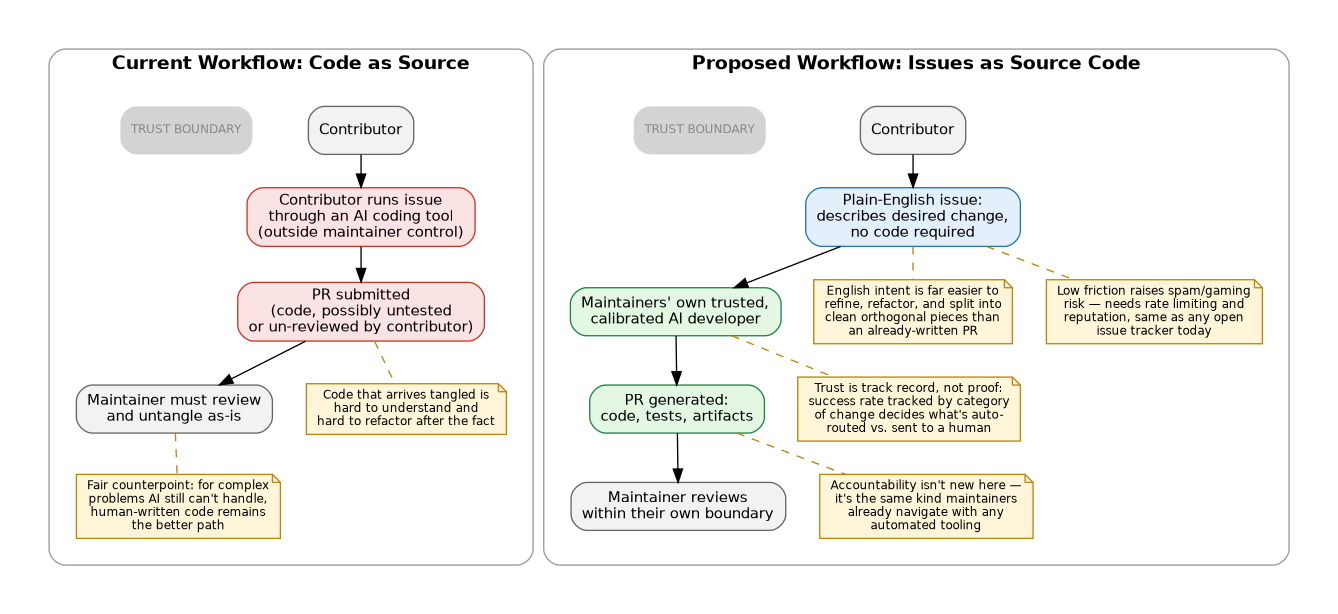
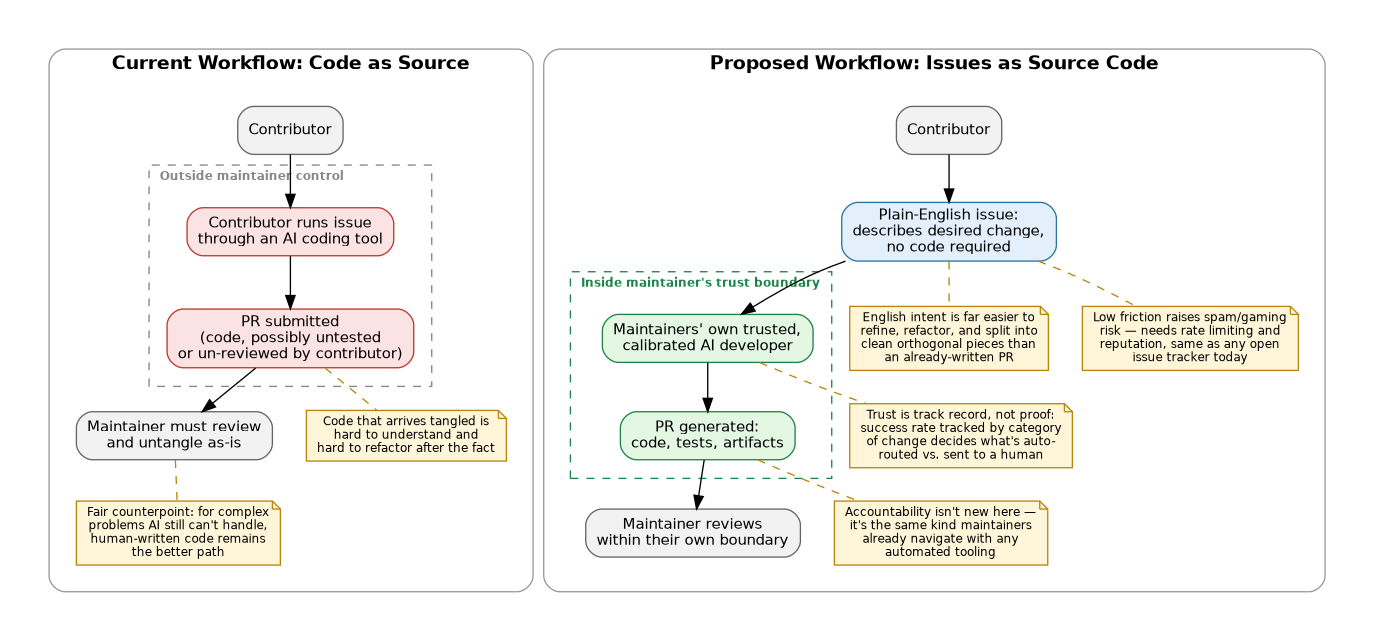
Update issues-as-source-code blog post and diagram

Changed region(s): [[0.0306, 0.0619, 0.9806, 0.9283], [0.4596, 0.1547, 0.5822, 0.2785]]

diff --git a/Articles/Blog/2026-09-issues-as-source-code.md b/Articles/Blog/2026-09-issues-as-source-code.md
@@ -1,18 +1,20 @@
 # Issues as Source Code
 
+I have spent much of my career working on the practices that make scientific software trustworthy, and lately a good deal of that attention has gone to how AI is reshaping one of the oldest of those practices: the pull request.
+
 ## The Problem
 
-Open source maintainers are experiencing a large increase in contributions that are difficult to trust and process. Pull requests arrive that are clearly the product of someone applying an AI coding tool to the repository, copying out whatever came back, and submitting it, often without reading the diff closely, let alone testing it against the project's actual constraints. The code might work. It might not. It might quietly break an invariant the contributor never knew existed. The maintainer has no way to tell the difference between a PR that was carefully validated and one that was generated and forwarded in five minutes.  Even without AI tools to accelerate this kind of contribution, open source software maintainers commonly receive large pull requests as one big collection of changes addressing multiple concerns across many files.
+Open source maintainers are experiencing a large increase in contributions that are difficult to trust and process. Pull requests arrive that are clearly the product of someone applying an AI coding tool to the repository, copying out whatever came back, and submitting it, often without reading the diff closely, let alone testing it against the project's actual constraints. The code might work. It might not. It might quietly break an invariant the contributor never knew existed. The maintainer has no way to tell the difference between a PR that was carefully validated and one that was generated and forwarded in five minutes. Even without AI tools to accelerate this kind of contribution, open source software maintainers have long received large pull requests as one big collection of changes addressing multiple concerns across many files.
 
-This isn't a story about AI-generated code being bad. It is the expansion of an existing challenge such that proposed source changes are increasingly difficult to handle or are simply rejected or ignored because the cost of review and integration is too costly or risky.  The result is a rising tide of pull requests that all look the same on the surface but vary wildly in quality underneath, and a maintainer community that is understandably growing more defensive and more skeptical of outside contributions in general.
+This isn't a story about AI-generated code being bad. It is the expansion of an existing challenge, to the point that proposed source changes are increasingly difficult to handle and are simply rejected or ignored because the cost of review and integration is too costly or risky. The result is a rising tide of pull requests that all look the same on the surface but vary wildly in quality underneath, and a maintainer community that is understandably growing more defensive and more skeptical of outside contributions in general.
 
 ## The Core Proposal: Issues as Source Code
 
-The main proposal of this article is to leverage AI tools with a different workflow. Instead of asking contributors to submit code, ask them to submit *intent,* a clearly written English description of the change they want to see, filed as a GitHub issue or equivalent. No code required, no PR required. Just a description with enough fidelity that someone (or something) could act on it.  In other words, a *set of well-specified requirements.*
+The main proposal of this article is to use AI tools within a different workflow. Instead of asking contributors to submit code, ask them to submit *intent*: a clearly written English description of the change they want to see, filed as a GitHub issue or equivalent. No code required, no PR required. Just a description with enough fidelity that someone, or something, could act on it. In other words, a *set of well-specified requirements.*
 
 The actual code generation then happens on the maintainers' side of the trust boundary, not the contributor's. A project's own trusted AI developer, one it has tuned, tested, and calibrated on that specific codebase, takes the issue and produces the source changes, tests, and other artifacts needed to turn it into a real PR. The contributor's job was never to write good code. It was to describe a problem or a desired change clearly. That's a much lower bar, and it's a bar most people are actually equipped to clear.
 
-This flips the current failure mode. Right now, unvetted AI-generated *code* arrives at the trust boundary and someone has to untangle it before integration, or reject it. In the proposed model, only AI-generated *intent descriptions* cross that boundary, and the code generation step happens inside the boundary, where the maintainers have visibility and control.
+This flips the current failure mode. Right now, unvetted AI-generated *code* arrives at the trust boundary, and someone has to untangle it before integration, or reject it outright. In the proposed model, only AI-generated *intent descriptions* cross that boundary, and the code generation step happens inside it, where the maintainers have visibility and control.
 
 ## Decomposition: Why English Factors Better Than Code
 
@@ -26,43 +28,47 @@ A large, sprawling PR that bundles five unrelated changes together is a nightmar
 
 The bet underlying all of this is fairly simple: a trusted AI that a project's maintainers have specifically calibrated to that codebase will generally do at least as good a job, for a meaningful subset of changes, as a well-intentioned contributor who lacks deep familiarity with the project's conventions, architecture, and edge cases.
 
-And there's a second, related bet: debugging English is easier than debugging code. If an issue is unclear, underspecified, or based on a misunderstanding, that's usually obvious on a quick read, and it's cheap to ask a clarifying question or send it back. If a thousand-line diff is subtly wrong, finding that out takes real review effort, and the cost of getting it wrong compounds the moment it is merged.
+There's a second, related bet: debugging English is easier than debugging code. If an issue is unclear, underspecified, or based on a misunderstanding, that's usually obvious on a quick read, and it's cheap to ask a clarifying question or send it back. If a thousand-line diff is subtly wrong, finding that out takes real review effort, and the cost of getting it wrong compounds the moment it is merged.
 
-To be clear, this isn't an argument that all, or even most, contributions should move to this model. That would be premature since some things genuinely require a human who understands the code to write the code. The argument is narrower and more defensible: there's *enough* territory where this workflow works well that most repos can benefit from having some low-friction path for this approach.
+To be clear, this isn't an argument that all, or even most, contributions should move to this model. That would be premature, since some things genuinely require a human who understands the code to write the code. The argument is narrower and more defensible: there's *enough* territory where this workflow works well that most repos can benefit from having some low-friction path for it.
 
 ## What the Data Shows
 
-Some evidence already exists to show the promise of this approach. A task-stratified analysis of over 33,000 agentic pull requests across five major AI coding agents found that documentation tasks reached roughly 82% acceptance, compared to about 66% for new-feature work, a gap wide enough to matter. Claude Code in particular hit close to 92% acceptance on documentation tasks, well above its rates on fixes and refactoring.[^1] A separate, similarly large-scale study of agentic PRs found the same pattern: documentation, CI configuration, and build-related changes had the highest merge success of any task category, while performance work and bug fixes were the least reliable, with roughly 71% of all agentic PRs merging overall.[^2]
+Some evidence already exists to support the promise of this approach. A task-stratified analysis of over 33,000 agentic pull requests across five major AI coding agents found that documentation tasks reached roughly 82 percent acceptance, compared to about 66 percent for new-feature work, a gap wide enough to matter. Claude Code in particular hit close to 92 percent acceptance on documentation tasks, well above its rates on fixes and refactoring.[^1] A separate, similarly large-scale study of agentic PRs found the same pattern: documentation, CI configuration, and build-related changes had the highest merge success of any task category, while performance work and bug fixes were the least reliable, with roughly 71 percent of all agentic PRs merging overall.[^2]
 
-That maps closely onto the pattern many people doing website and documentation work on GitHub Pages repos are already seeing in practice: this is close to a solved problem for that category of change today.
+In our experience, that maps closely onto the pattern many people doing website and documentation work on GitHub Pages repos are already seeing in practice: this is close to a solved problem for that category of change today.
 
-Programming-language source code and tests are a different, still-maturing story. SWE-bench — the benchmark specifically designed to test whether an AI can turn a real GitHub issue into a correct, tested code patch — has seen resolve rates climb from around 40% a couple of years ago to figures in the 70-90%+ range for the strongest models today.[^3] That's genuine progress on exactly the issues-to-code transformation this article is proposing. But a newer, harder benchmark in the same family shows just how repository-dependent that number is: some codebases see resolve rates below 10% for every model tested, while others see over 50%, with codebase complexity, problem type, and documentation quality named as the deciding factors.[^4]
+Programming-language source code and tests are a different, still-maturing story. SWE-bench, the benchmark specifically designed to test whether an AI can turn a real GitHub issue into a correct, tested code patch, has seen resolve rates climb from around 40 percent a couple of years ago to figures in the 70-to-90-plus percent range for the strongest models today.[^3] That's genuine progress on exactly the issues-to-code transformation this article is proposing. But a newer, harder benchmark in the same family shows just how repository-dependent that number is: some codebases see resolve rates below 10 percent for every model tested, while others see over 50 percent, with codebase complexity, problem type, and documentation quality named as the deciding factors.[^4]
 
-That variance is the reason for the empirical-trust argument. There is no single number that says "AI can resolve issues." There's only a number for *this* repository, on *this* type of task, right now, which is exactly the kind of thing a track-record-based approval process is built to measure.
+That variance is the reason for the empirical-trust argument developed below. There is no single number that says "AI can resolve issues." There's only a number for *this* repository, on *this* type of task, right now, which is exactly the kind of thing a track-record-based approval process is built to measure.
 
 ## Objections Worth Taking Seriously
 
-**Why not just let the AI read the code directly and skip the issue?** Because the issue is where a human states what they actually want, in terms a human can review and disagree with before any code exists. Skipping straight to "AI reads the code and decides what to change" removes the one place where intent is explicit and checkable, and it reintroduces the exact opacity problem this workflow is trying to solve.
+Three objections come up consistently enough to be worth answering directly.
 
-**Who's accountable when the bot's fix breaks something?** This is a real question and it doesn't have a single tidy answer. But it's not a new kind of question. It's the same one projects already navigate with any automated tooling change, and the accountability structure ultimately rests with whoever approved using the bot for that class of change, informed by the track record described below. It's not the contributor's fault for describing a problem in English; it's on the maintainers' judgment about when the automation was appropriate to trust.
+1. **Why not just let the AI read the code directly and skip the issue?** Because the issue is where a human states what they actually want, in terms a human can review and disagree with before any code exists. Skipping straight to "AI reads the code and decides what to change" removes the one place where intent is explicit and checkable, and it reintroduces the exact opacity problem this workflow is trying to solve.
 
-**Won't low-friction issue submission invite spam or gaming?** Possibly, and any implementation needs to think about rate limiting, reputation, and abuse the way any open contribution surface does. But this isn't a fundamentally new problem — projects already deal with low-quality or spammy issues today — and a lightweight, well-scoped issue is a much smaller attack surface than a plausible-looking, fully-formed malicious PR.
+2. **Who's accountable when the bot's fix breaks something?** This is a real question and it doesn't have a single tidy answer. But it's not a new kind of question. It's the same one projects already navigate with any automated tooling change, and the accountability rests with whoever approved using the bot for that class of change, informed by the track record described below. It's not the contributor's fault for describing a problem in English; it's a matter of the maintainers' judgment about when the automation was appropriate to trust.
+
+3. **Won't low-friction issue submission invite spam or gaming?** Possibly, and any implementation needs to think about rate limiting, reputation, and abuse the way any open contribution surface does. But this isn't a fundamentally new problem. Projects already deal with low-quality or spammy issues today, and a lightweight, well-scoped issue is a much smaller attack surface than a plausible-looking, fully formed malicious PR.
 
 ## Trust as Track Record, Not Proof
 
-Underlying the accountability question is a bigger point about how trust actually works in practice. In software engineering — and in most of real life — trust isn't established through some kind of formal proof of correctness or trustworthiness. It's established through repeated, observed reliability. You don't trust a car to cross the desert because someone proved mathematically that it can; you trust it because it's made the crossing before, more than once, and its maintenance and recent performance back that up.
+Underlying the accountability question is a bigger point about how trust actually works in practice. In software engineering, and in most of real life, trust isn't established through some kind of formal proof of correctness or trustworthiness. It's established through repeated, observed reliability. You don't trust a car to cross the desert because someone proved mathematically that it can; you trust it because it's made the crossing before, more than once, and its maintenance and recent performance back that up.
 
-The same logic should govern when an issues-to-PR AI workflow is appropriate to use. The right question isn't "is this AI trustworthy in the abstract," it's "how has this AI performed on similar issues, in this repo, recently." That's a measurable, evolving quantity, not a philosophical stance. A project could concretely track the bot's success rate broken out by category of change: refactors, bug fixes, test additions, documentation, and use that history to decide what gets auto-routed to the bot versus flagged for a human to handle directly.
+The same logic should govern when an issues-to-PR AI workflow is appropriate to use. The right question isn't "is this AI trustworthy in the abstract," it's "how has this AI performed on similar issues, in this repo, recently." That's a measurable, evolving quantity, not a philosophical stance. A project could concretely track the bot's success rate broken out by category of change (refactors, bug fixes, test additions, documentation) and use that history to decide what gets auto-routed to the bot versus flagged for a human to handle directly.
 
-This also answers the accountability question more concretely than it might first appear: a maintainer approving the use of the bot for a given class of issue isn't issuing a blank check, they're trusting a measured, ongoing track record, the same kind of trust that already governs when a team relies on a test suite, a linter, or any other piece of automation with a history behind it.
+This also answers the accountability question more concretely than it might first appear: a maintainer approving the use of the bot for a given class of issue isn't issuing a blank check. They're trusting a measured, ongoing track record, the same kind of trust that already governs when a team relies on a test suite, a linter, or any other piece of automation with a history behind it.
 
 ## Using AI to Watch the AI
 
-There's a natural extension to the track-record idea, and it closes the loop nicely: the ongoing evaluation of the bot's trustworthiness is itself a good task for AI. Rather than a maintainer manually reviewing outcome logs, a separate evaluative process can watch the pattern of results over time — not just judging a single PR in isolation, but noticing drift, spotting categories where reliability is slipping, and flagging when a class of change should be pulled back from automatic routing.
+There's a natural extension to the track-record idea, and it closes the loop nicely: the ongoing evaluation of the bot's trustworthiness is itself a good task for AI. Rather than a maintainer manually reviewing outcome logs, a separate evaluative process can watch the pattern of results over time, not just judging a single PR in isolation, but noticing drift, spotting categories where reliability is slipping, and flagging when a class of change should be pulled back from automatic routing.
 
-That's a fitting note to end on, because it reflects the same underlying philosophy driving the whole proposal: trust here isn't a one-time judgment, it's an ongoing, evidence-based relationship.  It's one more place where a well-calibrated AI, watching carefully, can do a job that's genuinely hard for a human to keep up with at scale.
+That's a fitting note to close on, because it reflects the same underlying philosophy driving the whole proposal: trust here isn't a one-time judgment, it's an ongoing, evidence-based relationship. It's one more place where a well-calibrated AI, watching carefully, can do a job that's genuinely hard for a human to keep up with at scale.
 
-To be clear about scope: this is not an argument that the age of human-written pull requests is over, or that every repo needs this today. It's an argument that for a real and growing slice of changes, an issues-first, English-in / PR-out workflow is trustworthy enough, right now, that most repositories should consider a low-friction path for it, even while plenty of contributions will keep flowing through the traditional route for a long time to come.
+To be clear about scope, this is not an argument that the age of human-written pull requests is over, or that every repo needs this today. It's an argument that for a real and growing slice of changes, an issues-first, English-in / PR-out workflow is trustworthy enough, right now, that most repositories should consider a low-friction path for it, even while plenty of contributions will keep flowing through the traditional route for a long time to come.
+
+Future posts will look more closely at what a track-record dashboard for this kind of workflow might actually look like.
 
 ---
 
